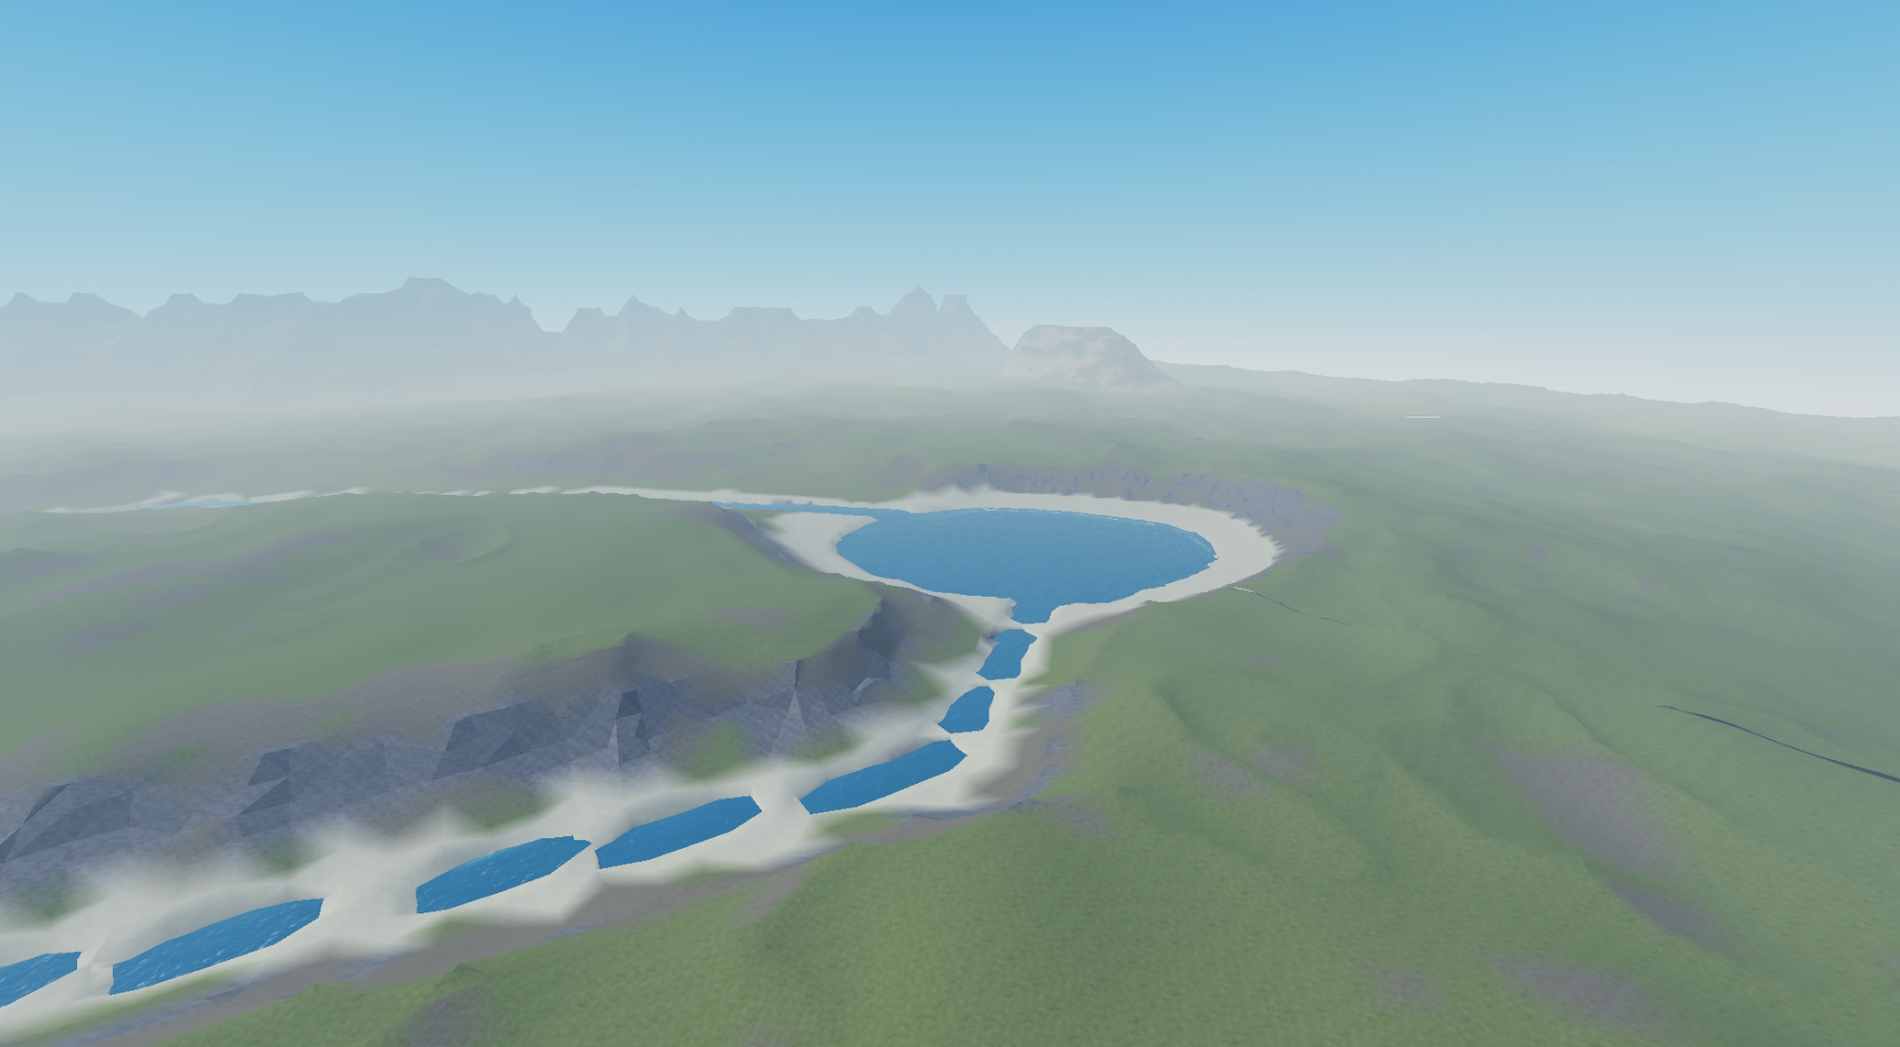
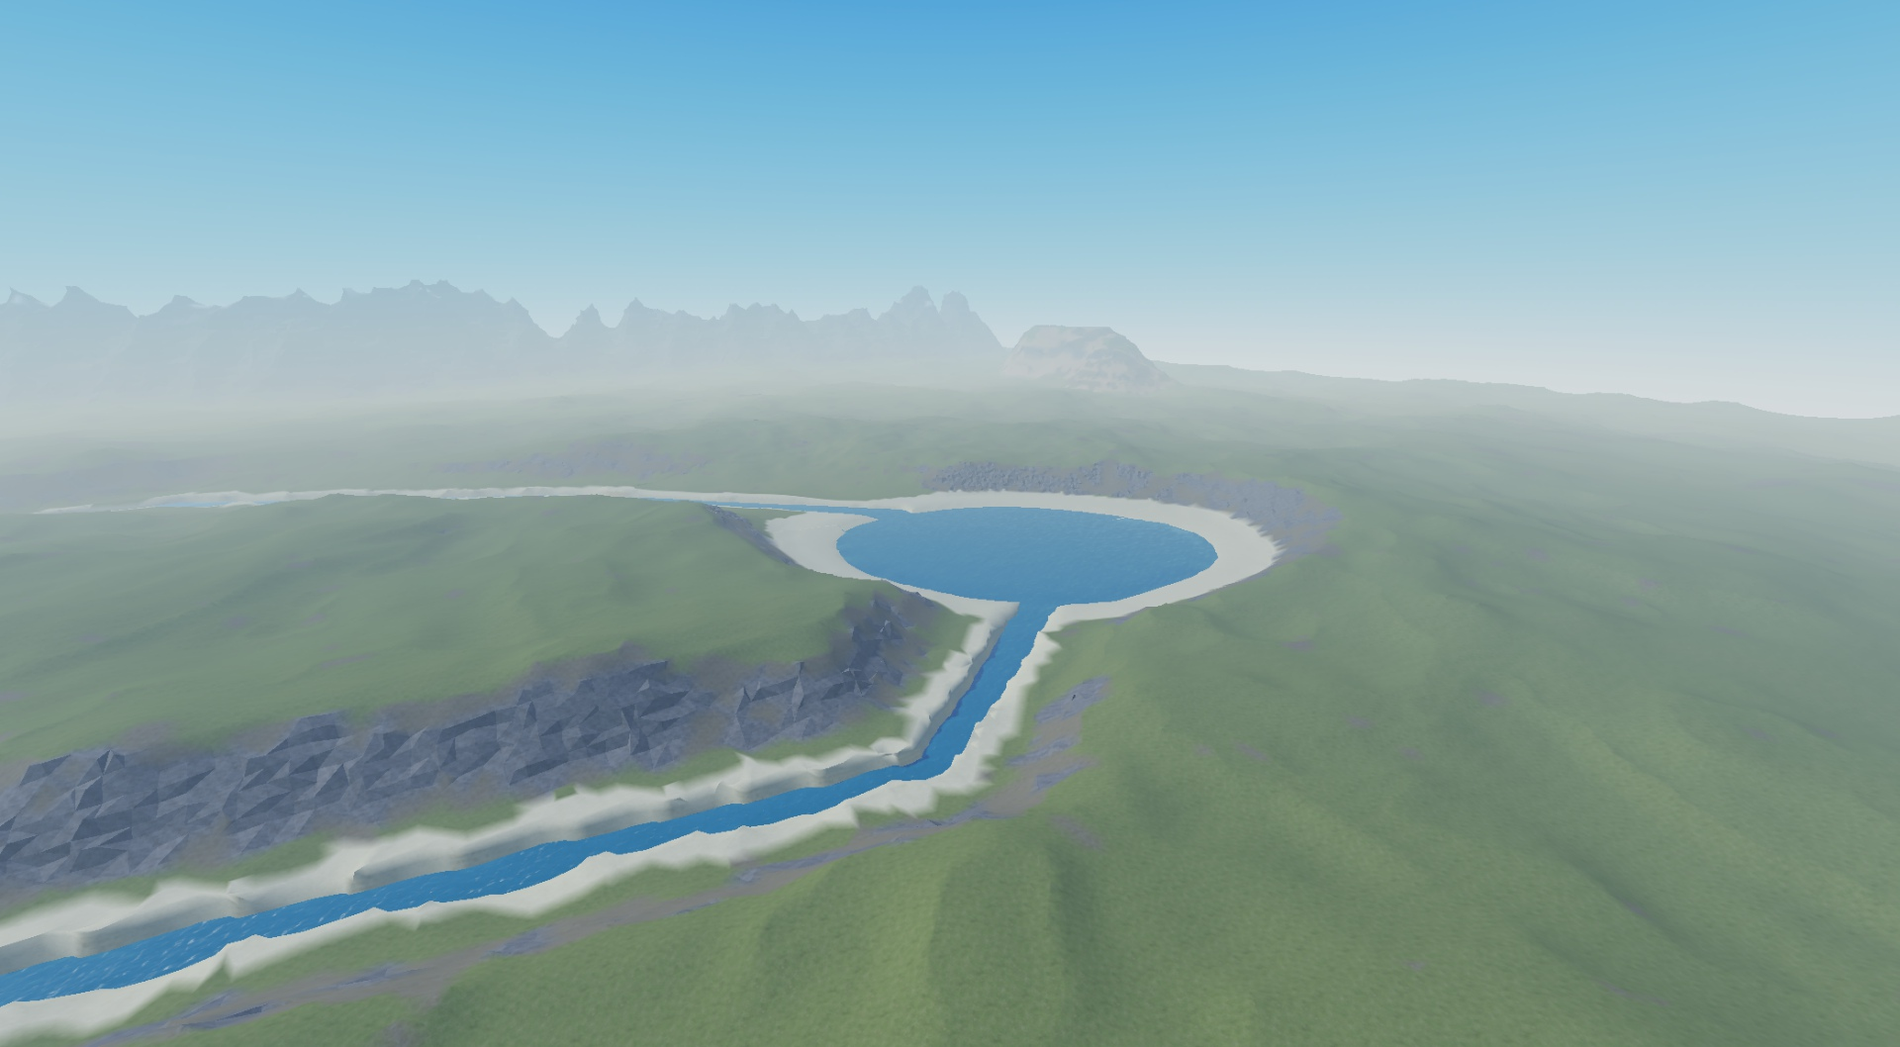
fix: rebuild the render before a capture that needs it (#26)
After a write, broken water stayed for over 60 s and a capture's size could not tell. Play then Stop cleared it. capture and shot now rebuild the render after a write or a far view, and take each view once.

diff --git a/plugins/roblox-world/engine/tools/world.js b/plugins/roblox-world/engine/tools/world.js
@@ -33,7 +33,9 @@ Inspect, writing no terrain
 Look, only on request or when the developer is away: these move their camera
   capture [<view> ...]            Save chosen views, or all of them, to docs/captures/run/
   shot <name> <x y z> <x y z>     Save one view from a camera position towards a target
-  refresh                         Press Play then Stop, which rebuilds the render
+  refresh                         Press Play then Stop, which rebuilds the render, and wait for it
+                                  After a write, capture and shot do this first. Play runs the place's scripts,
+                                  so add --no-refresh after the views for a place where that matters
 
 Delete
   wipe [--confirm <name>] [--include-locked]   Alone, only prints what would be lost. Confirmed, deletes ALL terrain
@@ -47,12 +49,13 @@ const PLAN = 'src/world/plan';
 const STATE = 'src/world/state';
 const OPS = 'shared.World.require("src/world/studio/Ops")';
 const BLANK_CAPTURE_CHARS = 15000; // Blank captures measured about 7,400 base64 characters, real ones over 79,000.
-// The render has settled when two captures in a row differ in size by this fraction or less. A
-// settled view measured under 1% of variation, and a half-built one 18% to 70%. Some settled far
-// views jump about 6% between two sizes, so tries are capped and an unsettled view is only reported.
-const SETTLE_TOLERANCE = 0.02;
-const SETTLE_PAUSE_MS = 2000;
-const SETTLE_TRIES = 5;
+// After a write, broken water stayed for 60 s until Play then Stop cleared it. A capture 0.4 s after Stop
+// came out half blank and one at 5 s was right, so that is the wait. A capture's size cannot prove the
+// render finished: it was the same with the water broken and whole.
+const RENDER_WAIT_MS = Number(process.env.WORLD_RENDER_WAIT_MS || 5000);
+// After a write, a view from about 1,860 studs left the water near the Lake broken for over 60 s, and
+// one from about 965 studs did not, so a view farther than this asks the next look to rebuild the render.
+const FAR_VIEW_STUDS = 1000;
 
 async function oneCapture(studio, id, camera, look) {
   const result = await studio.tool('screen_capture', { capture_id: id, camera_position: camera, look_at_position: look });
@@ -61,17 +64,25 @@ async function oneCapture(studio, id, camera, look) {
   return image;
 }
 
-// Repeats a capture until its size stops changing, and returns the last image with the tries used.
-async function settledCapture(studio, id, camera, look) {
-  let previous = null;
-  for (let tries = 1; ; tries += 1) {
-    const image = await oneCapture(studio, id, camera, look);
-    const size = image.data.length;
-    const settled = previous !== null && Math.abs(size - previous) <= SETTLE_TOLERANCE * Math.max(size, previous);
-    if (settled || tries === SETTLE_TRIES) return { data: image.data, tries, settled };
-    previous = size;
-    await new Promise((resolve) => { setTimeout(resolve, SETTLE_PAUSE_MS); });
-  }
+async function afterView(studio, camera, look) {
+  const distance = Math.hypot(...camera.map((value, axis) => value - look[axis]));
+  if (distance > FAR_VIEW_STUDS) await studio.luau(`return ${OPS}.markRenderStale()`);
+}
+
+async function rebuildRender(studio) {
+  await studio.tool('start_stop_play', { is_start: true });
+  await studio.tool('start_stop_play', { is_start: false });
+  await new Promise((resolve) => { setTimeout(resolve, RENDER_WAIT_MS); });
+}
+
+// Before a look: a render that has not been rebuilt since a write can show what the voxels do not hold.
+// Returns what to report. Play runs the place's scripts, so --no-refresh keeps a game's place out of it.
+async function renderNote(studio, ctx) {
+  const stale = (await studio.luau(`return tostring(${OPS}.takeRenderStale())`)).trim() === 'true';
+  if (!stale) return '';
+  if (ctx.flags['no-refresh'] !== undefined) return 'Render not rebuilt since a write, so glitches may show. ';
+  await rebuildRender(studio);
+  return 'Render rebuilt after a write. ';
 }
 
 function parseArgs(argv) {
@@ -92,7 +103,11 @@ class Studio {
   constructor() {
     this.pending = new Map();
     this.nextId = 1;
-    this.child = spawn('cmd.exe', ['/c', 'cd /d %LOCALAPPDATA%\\Roblox && .\\mcp.bat'], { stdio: ['pipe', 'pipe', 'inherit'] });
+    // WORLD_FAKE_STUDIO names a stand-in for Studio's server, for the tests.
+    const fake = process.env.WORLD_FAKE_STUDIO;
+    this.child = fake
+      ? spawn(process.execPath, [fake], { stdio: ['pipe', 'pipe', 'inherit'] })
+      : spawn('cmd.exe', ['/c', 'cd /d %LOCALAPPDATA%\\Roblox && .\\mcp.bat'], { stdio: ['pipe', 'pipe', 'inherit'] });
     let buffer = '';
     this.child.stdout.on('data', (data) => {
       buffer += data;
@@ -309,37 +324,39 @@ const steps = {
   // One view chosen by hand, for what the capture set does not cover.
   async shot(studio, ctx, args) {
     const [name, ...numbers] = args;
-    const image = await settledCapture(studio, `world_${name}`, numbers.slice(0, 3).map(Number), numbers.slice(3, 6).map(Number));
+    const note = await renderNote(studio, ctx);
+    const camera = numbers.slice(0, 3).map(Number);
+    const look = numbers.slice(3, 6).map(Number);
+    const image = await oneCapture(studio, `world_${name}`, camera, look);
+    await afterView(studio, camera, look);
     if (image.data.length < BLANK_CAPTURE_CHARS) { ctx.failed = true; return 'BLANK capture. The Studio window is probably minimized'; }
     const dir = path.join(ctx.project, 'docs/captures/run');
     fs.mkdirSync(dir, { recursive: true });
     fs.writeFileSync(path.join(dir, `${name}.jpg`), Buffer.from(image.data, 'base64'));
-    return `${path.join(dir, `${name}.jpg`)}${image.settled ? '' : ' (not settled)'}`;
+    return `${note}${path.join(dir, `${name}.jpg`)}`;
   },
 
   // Rebuilds the render without changing the map, for a hole whose voxels are correct.
   async refresh(studio) {
-    await studio.tool('start_stop_play', { is_start: true });
-    await studio.tool('start_stop_play', { is_start: false });
-    return 'Play then Stop done';
+    await studio.luau(`return tostring(${OPS}.takeRenderStale())`);
+    await rebuildRender(studio);
+    return 'Play then Stop done, and the render had time to rebuild';
   },
 
-  // Views come from the World Plan, so a new map needs no camera positions. Each capture moves the
-  // developer's camera, so only the first repeats until the render settles, and the rest are taken once.
+  // Views come from the World Plan, so a new map needs no camera positions. The overview goes last,
+  // because a jump from its height left the next view broken for about 15 s.
   async capture(studio, ctx, args) {
     const all = JSON.parse(await studio.luau(`return ${OPS}.views()`));
     const views = args.length ? all.filter((view) => args.includes(view.name)) : all;
     if (args.length && views.length !== args.length) throw new Error(`Unknown view. Views: ${all.map((v) => v.name).join(' ')}`);
+    const note = await renderNote(studio, ctx);
+    const ordered = [...views.filter((view) => view.name !== 'overview'), ...views.filter((view) => view.name === 'overview')];
     const dir = path.join(ctx.project, 'docs/captures/run');
     fs.mkdirSync(dir, { recursive: true });
     const saved = [];
-    const unsettled = [];
-    for (let n = 0; n < views.length; n += 1) {
-      const view = views[n];
-      const image = n === 0
-        ? await settledCapture(studio, `world_${view.name}`, view.camera, view.look)
-        : await oneCapture(studio, `world_${view.name}`, view.camera, view.look);
-      if (n === 0 && !image.settled) unsettled.push(view.name);
+    for (const view of ordered) {
+      const image = await oneCapture(studio, `world_${view.name}`, view.camera, view.look);
+      await afterView(studio, view.camera, view.look);
       if (image.data.length < BLANK_CAPTURE_CHARS) {
         ctx.failed = true;
         return `BLANK capture at ${view.name}. The Studio window is probably minimized: ask the developer to restore it, then run the capture step`;
@@ -348,8 +365,7 @@ const steps = {
       fs.writeFileSync(path.join(dir, name), Buffer.from(image.data, 'base64'));
       saved.push(name);
     }
-    const note = unsettled.length ? `. Not settled, look at these first: ${unsettled.join(' ')}` : '';
-    return `${saved.length} views in ${dir}: ${saved.join(' ')}${note}`;
+    return `${note}${saved.length} views in ${dir}: ${saved.join(' ')}`;
   },
 };
 

diff --git a/tests/world-cli.test.js b/tests/world-cli.test.js
@@ -123,3 +123,84 @@ test('check needs a place, like every command that reaches Studio', () => {
   assert.strictEqual(status, 2);
   assert.match(stderr, /--place/);
 });
+
+// The steps of a command that reaches Studio, against a stand-in for Studio's MCP server.
+function withStudio(env, args, check) {
+  const dir = tempDir();
+  try {
+    const log = path.join(dir, 'calls.log');
+    fs.mkdirSync(path.join(dir, 'src/world'), { recursive: true });
+    for (const name of ['plan', 'state']) fs.writeFileSync(path.join(dir, `src/world/${name}.luau`), 'return {}\n');
+    const fake = path.resolve(__dirname, 'fixtures/fake-studio.js');
+    const result = spawnSync(process.execPath, [cli, ...args, '--place', 'P', '--project', dir], {
+      encoding: 'utf8',
+      timeout: 15000,
+      env: { ...process.env, ...env, FAKE_STUDIO_LOG: log, WORLD_FAKE_STUDIO: fake, WORLD_RENDER_WAIT_MS: '1' },
+    });
+    const calls = fs.readFileSync(log, 'utf8').trim().split('\n').filter((line) => line !== 'execute_luau');
+    check(result, calls);
+  } finally {
+    fs.rmSync(dir, { recursive: true, force: true });
+  }
+}
+
+test('a capture after a write rebuilds the render first, and only once', () => {
+  withStudio({ FAKE_STUDIO_STALE: 'true' }, ['capture'], ({ status, stdout }, calls) => {
+    assert.strictEqual(status, 0, stdout);
+    assert.deepStrictEqual(calls.slice(0, 3), ['list_roblox_studios', 'start_stop_play', 'start_stop_play']);
+    assert.strictEqual(calls.filter((call) => call === 'start_stop_play').length, 2);
+    assert.strictEqual(calls.filter((call) => call.startsWith('capture')).length, 3);
+    assert.match(stdout, /rebuilt/);
+  });
+});
+
+test('a capture with no write since the last rebuild leaves Play alone', () => {
+  withStudio({}, ['capture'], (_, calls) => {
+    assert.ok(!calls.includes('start_stop_play'));
+  });
+});
+
+test('a shot after a write rebuilds the render first', () => {
+  withStudio({ FAKE_STUDIO_STALE: 'true' }, ['shot', 'one', '1', '2', '3', '4', '5', '6'], (_, calls) => {
+    assert.deepStrictEqual(calls, ['list_roblox_studios', 'start_stop_play', 'start_stop_play', 'capture world_one']);
+  });
+});
+
+test('--no-refresh keeps a place from entering Play, and warns that glitches may show', () => {
+  withStudio({ FAKE_STUDIO_STALE: 'true' }, ['capture', '--no-refresh'], ({ stdout }, calls) => {
+    assert.ok(!calls.includes('start_stop_play'));
+    assert.match(stdout, /glitch/i);
+  });
+});
+
+test('capture takes the overview last, since a jump from its height leaves the next view broken', () => {
+  withStudio({}, ['capture'], (_, calls) => {
+    assert.deepStrictEqual(calls.filter((call) => call.startsWith('capture')), [
+      'capture world_hills-above', 'capture world_river-above', 'capture world_overview',
+    ]);
+  });
+});
+
+test('capture takes each view once, since its file size cannot prove the render finished', () => {
+  withStudio({}, ['capture', 'overview'], (_, calls) => {
+    assert.strictEqual(calls.filter((call) => call.startsWith('capture')).length, 1);
+  });
+});
+
+test('a view from far away leaves the next look to rebuild the render, since the near terrain stays broken', () => {
+  withStudio({}, ['capture', 'overview'], (_, calls) => {
+    assert.deepStrictEqual(calls.slice(-2), ['capture world_overview', 'mark render stale']);
+  });
+  withStudio({}, ['shot', 'far', '0', '1500', '1500', '0', '0', '0'], (_, calls) => {
+    assert.strictEqual(calls[calls.length - 1], 'mark render stale');
+  });
+});
+
+test('a view from nearby leaves the render as it is', () => {
+  withStudio({}, ['capture', 'river-above'], (_, calls) => {
+    assert.ok(!calls.includes('mark render stale'));
+  });
+  withStudio({}, ['shot', 'near', '760', '250', '500', '1250', '110', '-320'], (_, calls) => {
+    assert.ok(!calls.includes('mark render stale'));
+  });
+});

diff --git a/tests/fixtures/fake-studio.js b/tests/fixtures/fake-studio.js
@@ -1,0 +1,42 @@
+// A stand-in for Studio's MCP server, so the engine's command line can be tested without Studio.
+// It appends each tool call to FAKE_STUDIO_LOG, one name per line.
+//   FAKE_STUDIO_STALE=true       terrain was written since the last rebuild of the render
+//   FAKE_STUDIO_MISSES=<n>       the first n listings report no open place
+const fs = require('fs');
+const readline = require('readline');
+
+const log = (line) => fs.appendFileSync(process.env.FAKE_STUDIO_LOG, `${line}\n`);
+const text = (value) => ({ content: [{ type: 'text', text: value }] });
+const VIEWS = [
+  { name: 'overview', camera: [0, 1500, 1500], look: [0, 0, 0] },
+  { name: 'hills-above', camera: [0, 100, 0], look: [1, 0, 0] },
+  { name: 'river-above', camera: [0, 90, 0], look: [1, 0, 0] },
+];
+let misses = Number(process.env.FAKE_STUDIO_MISSES || 0);
+
+function luau(code) {
+  if (code.includes('.markRenderStale()')) log('mark render stale');
+  if (code.includes('shared.World ~= nil')) return 'true';
+  if (code.includes('.differs(')) return '';
+  if (code.includes('.views()')) return JSON.stringify(VIEWS);
+  if (code.includes('.takeRenderStale()')) return process.env.FAKE_STUDIO_STALE === 'true' ? 'true' : 'false';
+  return '';
+}
+
+function call(name, args) {
+  log(name === 'screen_capture' ? `capture ${args.capture_id}` : name);
+  if (name === 'list_roblox_studios') {
+    if (misses > 0) { misses -= 1; return text(JSON.stringify({ studios: [] })); }
+    return text(JSON.stringify({ studios: [{ id: 'one', name: 'P' }] }));
+  }
+  if (name === 'execute_luau') return text(luau(args.code));
+  if (name === 'screen_capture') return { content: [{ type: 'image', data: 'A'.repeat(20000) }] };
+  return text('');
+}
+
+readline.createInterface({ input: process.stdin }).on('line', (line) => {
+  const message = JSON.parse(line);
+  if (message.id === undefined) return;
+  const result = message.method === 'tools/call' ? call(message.params.name, message.params.arguments) : {};
+  process.stdout.write(`${JSON.stringify({ jsonrpc: '2.0', id: message.id, result })}\n`);
+});

diff --git a/docs/next-steps.md b/docs/next-steps.md
@@ -46,13 +46,12 @@ Cheap measures such as the slope spread and pits with no outflow can catch regre
 ## Open defects
 
 - **Open cave:** a cave stays carved as an open trench after the ground over it moves, and nothing reports it. See `docs/bugs/open-cave.md` and issue #22. Waiting for the developer to start it.
-- **Broken River water:** on `test-map-x2`, captures show a River's water as separate pools with sand between them. Seen on 2026-11-06, and its voxels were not read, so it may be rendering.
 - **`Open: none`:** `world.js` sometimes reports that no place is open while Studio is connected, and running it again works. It cost about 20 s and 40 s in two runs. It does not retry by itself, and the cause is unknown.
 - **Lake:** measured in voxels and tests on `exam-4`, and not yet judged by eye. A River's valley keeps its width up to the shore.
 - **Worlds the agent places by hand look alike:** on plugin 0.15.0, 3 of 3 put the range in the north, the River running west to east and the mesa in the east. `new --landforms` avoids this, and a request with chosen positions or a cave still goes through the template.
 - **Composed layouts:** seen as text and by tests only. Whether they look good is the developer's call, and the range favours the south over the north, 651 to 351 of 2,000 seeds.
 - **Mesa:** the top is blotchy and still rounded.
-- **Rendering:** a dark rectangle hides part of the main River in the test world, while its voxels are correct. `hills-above` shows a dark crack.
+- **Rendering:** a dark rectangle hid part of the main River in the test world, while its voxels were correct, and has not been checked since `capture` began rebuilding the render. `hills-above` shows a dark crack.
 - **Mouse:** in one place the mouse stopped working in the 3D view, with the keyboard fine. Cause unknown.
 - **Guard off Windows:** where `powershell.exe` is missing, the hook fails to start and blocks nothing. Read in the docs and not tested. `onFailure: "block"` would close it.
 - **Transcript format:** `tools/measure-run.js` reads a format documented as internal, so a Claude Code update can break it.
@@ -72,7 +71,7 @@ Cheap measures such as the slope spread and pits with no outflow can catch regre
 
 ## Not verified
 
-Place file size, streaming, play mode and phones. A map larger than 9 Chunks. A character walking a cave. The tests under Lute. Any system other than Windows. The guard's approval window in an interactive session. Whether plugin hooks run under `--setting-sources project`, which the benchmark uses.
+Place file size, streaming, play mode and phones. What the render rebuild does to a place with scripts, since Play runs them. A map larger than 9 Chunks. A character walking a cave. The tests under Lute. Any system other than Windows. The guard's approval window in an interactive session. Whether plugin hooks run under `--setting-sources project`, which the benchmark uses.
 
 ## Ideas held for later
 

diff --git a/plugins/roblox-world/skills/world-debug/SKILL.md b/plugins/roblox-world/skills/world-debug/SKILL.md
@@ -7,7 +7,7 @@ Debugging is bounded: find which kind of problem this is, then fix it or report 
 
 1. **Run the facts.** `world.js check --place <name> --project <dir>` tests the engine, validates the plan and compares every border, and writes no terrain. A failing test, an invalid plan or a border mismatch is a real defect, so reproduce it with a failing test and fix it through the World Plan or the Generator.
 2. **Read the one spot.** For a place the developer points at, use `height <x> <z>`, a raycast or a voxel read. Confirm an empty test on a known-good spot, because a wrong index once reported 2,806 false holes.
-3. **Refresh once.** When voxels are correct, the problem is only rendering. Run `refresh` once, then ask the developer what they see, or run `capture <view>` if they are away.
+3. **Refresh once.** When voxels are correct, the problem is only rendering. `capture` and `shot` rebuild the render by themselves after a write or a far view, so a new capture is the first comparison. Otherwise run `refresh` once, then ask the developer what they see.
 4. **Stop and report.** If it stays after one refresh, report it as rendering. Chasing one such rectangle once cost 5.5 minutes and proved nothing.
 
 Done when each symptom has one verdict: defect fixed, defect reported, rendering, or unknown.
@@ -18,6 +18,7 @@ Done when each symptom has one verdict: defect fixed, defect reported, rendering
 |---|---|---|
 | Flat dark capture with only the view cube | The Studio window is minimized. Covered by another window, it still renders | Ask the developer to restore it |
 | Dark rectangle, missing patch or sky through a wall after a write | The render mesh is still building | Refresh once |
+| River water cut into pools, or a bank missing, after a write or a far view | The render was not rebuilt. Waiting 60 s did not clear it, and 403 of 403 voxel samples held water | Capture again with no `--no-refresh`, which rebuilds it first |
 | Coarse or missing Chunk far from the camera | Studio builds the mesh near its real camera, and a capture moves it only for an instant | Move the camera near it, or look from there |
 | Thin straight dark crack at ground level, with no holes in the voxels | Probably a meshing artifact. The cause is not proven, and waiting does not clear it | Report it |
 | Seam in a far view | A level-of-detail boundary | Confirm with a voxel read |

diff --git a/README.md b/README.md
@@ -10,9 +10,9 @@ The map is always the output of a program: the agent changes a declared World Pl
 
 ## Example
 
-A test world made by the agent: 36 Chunks with hills, a range, a mesa, a River with a fork, and a Lake where they end. These are raw captures from Studio on 2026-11-06, with no hand edits, so they show the current state of the look and not a finished one.
+A test world made by the agent: 36 Chunks with hills, a range, a mesa, a River with a fork, and a Lake where they end. These are raw captures from Studio on 2026-11-06, with no hand edits, so they show the current state of the look and not a finished one. The whole map appears through Studio's fog.
 
-![The whole map from above, through Studio's fog](docs/images/world-overview.jpg)
+![The whole map from above](docs/images/world-overview.jpg)
 
 Each change is a change to the World Plan. Moving the mesa closer to the range took one line of the plan, and the engine wrote only the 8 Chunks it touched, in 3.7 seconds.
 

diff --git a/docs/functions.md b/docs/functions.md
@@ -66,9 +66,9 @@ These move the developer's camera, so they run only on request or when the devel
 
 | Ask for | What runs | Status |
 |---|---|---|
-| A picture of named views | `capture <view> ...` | Measured |
-| A picture from a chosen position | `shot <name> <x y z> <x y z>` | Built. No recorded run was found |
-| Clear a rendering glitch | `refresh`: Play then Stop | Measured |
+| A picture of named views | `capture <view> ...`. After a write or a far view it rebuilds the render first, unless `--no-refresh`, since Play runs the place's scripts | Measured |
+| A picture from a chosen position | `shot <name> <x y z> <x y z>`, with the same rebuild | Measured |
+| Clear a rendering glitch | `refresh`: Play then Stop, and a wait of 5 s | Measured |
 
 ## Dangerous
 
